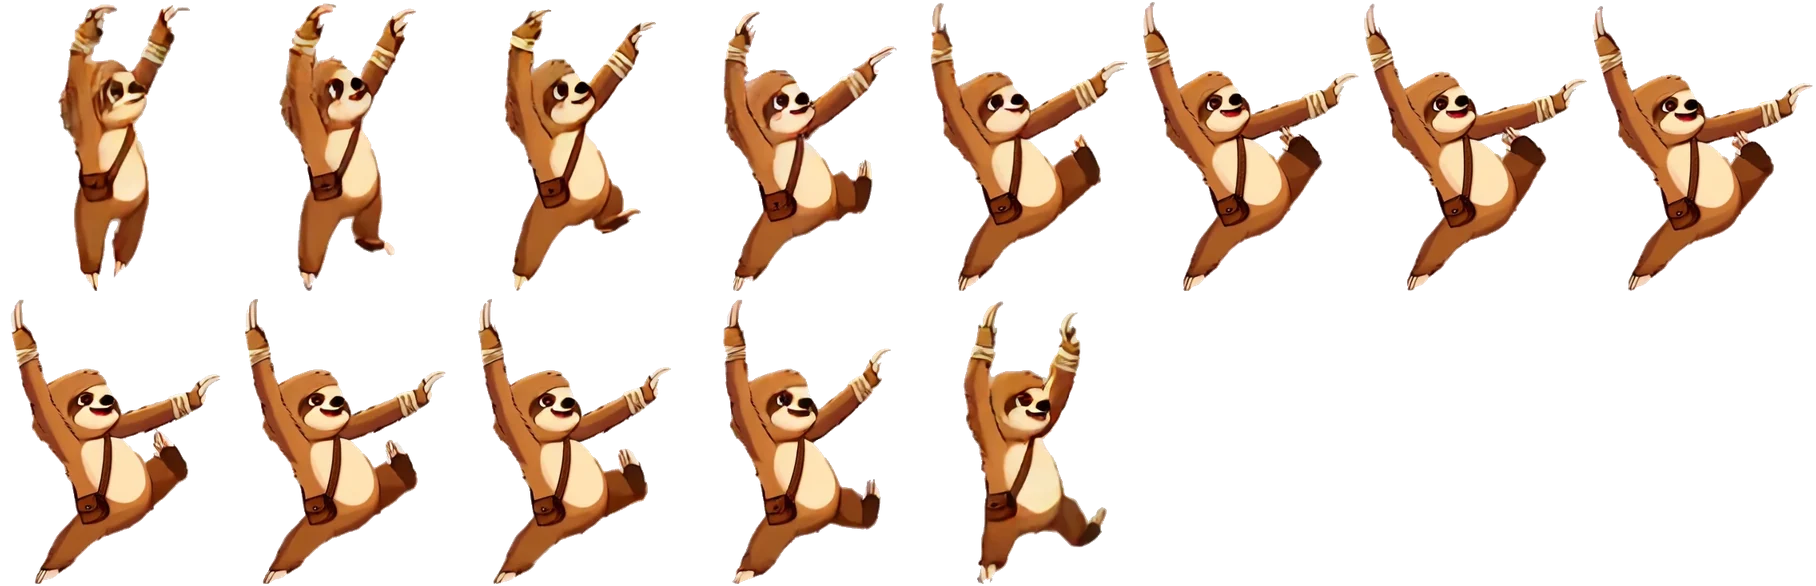
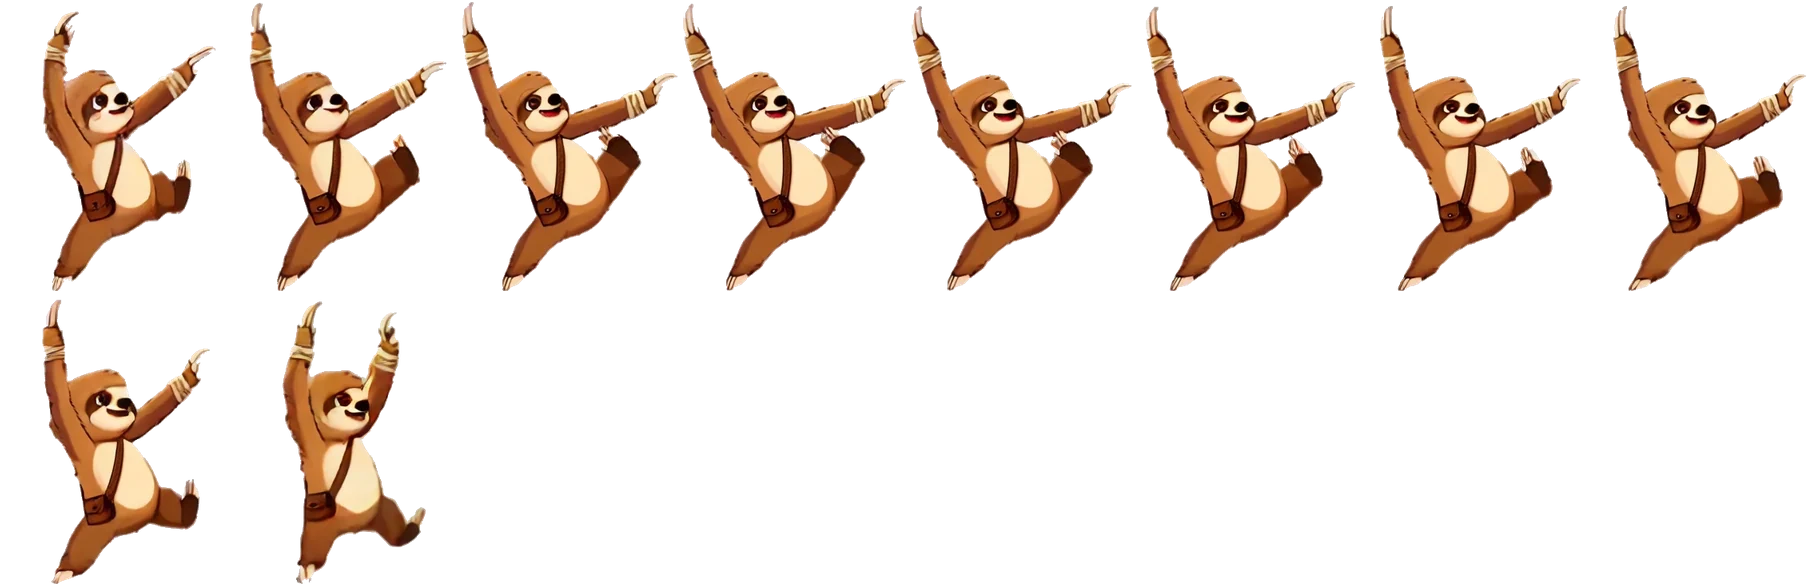
Jump: the video arc starts at clip frame 12 (9-11 turned him toward the camera); rising faster than 580 px/s shows his painted take-off stretch
Claude-Session: https://claude.ai/code/session_01FhBbYLy1ijcGLLgc9ijzuE

diff --git a/src/game/heroClips.ts b/src/game/heroClips.ts
@@ -150,8 +150,12 @@ export const MOVE_SHEETS: Record<string, string> = {
 export const CLIMB_CYCLE_PX = 110;
 /** the swing sheet runs from the back of the swing to the front; this angle (radians) or more is the end of the sheet */
 export const SWING_REACH = 1.0;
-/** the jump sheet runs from take-off to the bottom of the fall, by vertical speed from this (rising, px/s) to this (falling) */
-export const JUMP_VY: [number, number] = [-720, 620];
+/**
+ * the jump sheet runs from just after take-off to the bottom of the fall, by vertical speed from this (rising, px/s) to this (falling).
+ * Rising faster than the first, the painted take-off stretch (the standard hero's `launch`) shows instead: the clip's own take-off frames
+ * turn him toward the camera.
+ */
+export const JUMP_VY: [number, number] = [-580, 620];
 /** strides per turn of walkCycle (the same rate as the standard hero's cycle, so the feet keep pace with the ground) */
 const STRIDE_RATE = 0.6;
 const WALK_MAX = 90;
@@ -224,7 +228,7 @@ export function movePick(p: PlayerState): ClipFrame | null {
   // an ordinary jump (not a dive or a bounce, which keep their own frames): take-off, the top, the fall, by vertical speed
   if (!p.grounded && !p.hanging) {
     const sheet = MOVE_SHEETS.jump;
-    if (p.isDoubleJumping || p.diving || p.bounce || !hasClip(sheet)) return null;
+    if (p.isDoubleJumping || p.diving || p.bounce || p.vy < JUMP_VY[0] || !hasClip(sheet)) return null;
     return frameOf(sheet, moveIndex(HERO_CLIPS[sheet].n, jumpU(p.vy)));
   }
   if (!p.grounded || p.climbing || p.hanging || p.isVineSwinging || p.ducking || p.pushing) return null;

diff --git a/src/game/heroClipsData.ts b/src/game/heroClipsData.ts
@@ -155,7 +155,7 @@ export const HERO_CLIPS: Record<string, HeroClip> = {
   "fps": 16
  },
  "move-jump": {
-  "n": 13,
+  "n": 10,
   "cols": 8,
   "w": 227,
   "h": 293,

diff --git a/tools/art/train/clips.py b/tools/art/train/clips.py
@@ -85,9 +85,9 @@ SOURCE = {
     # wave at game size)
     'teeter': ('x14-stepback-s3', [20, 20, 21, 22, 23, 24, 24, 23, 22, 21], None),
     'step-back': ('x14-stepback-s3', list(range(15, 31)), None),
-    # the jump (pokey-anim, 2026-10-30, tools/art/pokeyanim/spec-anim1.json): pa-jump-s11's flight (9-21; 8 smears his face, 22 his paws) from the take-off stretch through the
+    # the jump (pokey-anim, 2026-10-30, tools/art/pokeyanim/spec-anim1.json): pa-jump-s11's flight (12-21: 8 smears his face, 9-11 turn him toward the camera, 22 blurs his paws) from the take-off stretch through the
     # rise, the top (one leg kicked back) and the fall with his arms up; the game picks the frame by his vertical speed (heroClips jumpU)
-    'move-jump': ('pa-jump-s11', list(range(9, 22)), None),
+    'move-jump': ('pa-jump-s11', list(range(12, 22)), None),
 }
 # sheets whose frames are re-centred on his torso one by one (a run or walk drifts a little in the clip; in the game the body must stay put)
 RECENTER = {'move-run', 'move-walk', 'move-jump', 'move-flip'}

diff --git a/reference/prop-sheets/qa-notes/pokey-anim/README.md b/reference/prop-sheets/qa-notes/pokey-anim/README.md
@@ -28,14 +28,14 @@ frame. `trace-before-*.json` and `trace-after-*.json` are **byte-identical**, si
 - `moves-side-before-after.mp4` (stacked), `moves-up-before-after.mp4` (side by side): the whole run at 30 fps.
 - `<move>-side.jpg`, `<move>-up.jpg`: every frame of the turn, the run start, the skid, the hard landing and the double jump, before above, after below.
 - `flip-before-after.jpg`: the flip on a plain ground, old and new.
-- `new-painted-frames.png`, `jump-sheet-13-frames.jpg`: the new frames at game scale.
+- `new-painted-frames.png`, `jump-sheet.jpg`: the new frames at game scale.
 
 ## Polish check
 
 - Turn: the first try squeezed to 15% across; at 30 fps that frame is held whole and showed as a sliver of him (broken-looking).
   Now 55%: `turn-side.jpg`, `turn-up.jpg`.
 - Skid dust: the first try read as tan stones lying on the path. Now small, soft and lifting as it fades: `skid-side.jpg`.
-- Jump sheet: clip frame 8 smeared his face and 22 blurred his paws; both left out: `jump-sheet-13-frames.jpg`.
+- Jump sheet: clip frame 8 smeared his face and 22 blurred his paws; both left out: `jump-sheet.jpg`.
 - The skid frame holds 3 frames; the engine's own reversal is only 2 (it takes 160 px/s off in one frame), so the skid keys off the speed of the frame before.
 
 ## Hugging Face (log: `tools/art/pokeyanim/jobs.txt`)
